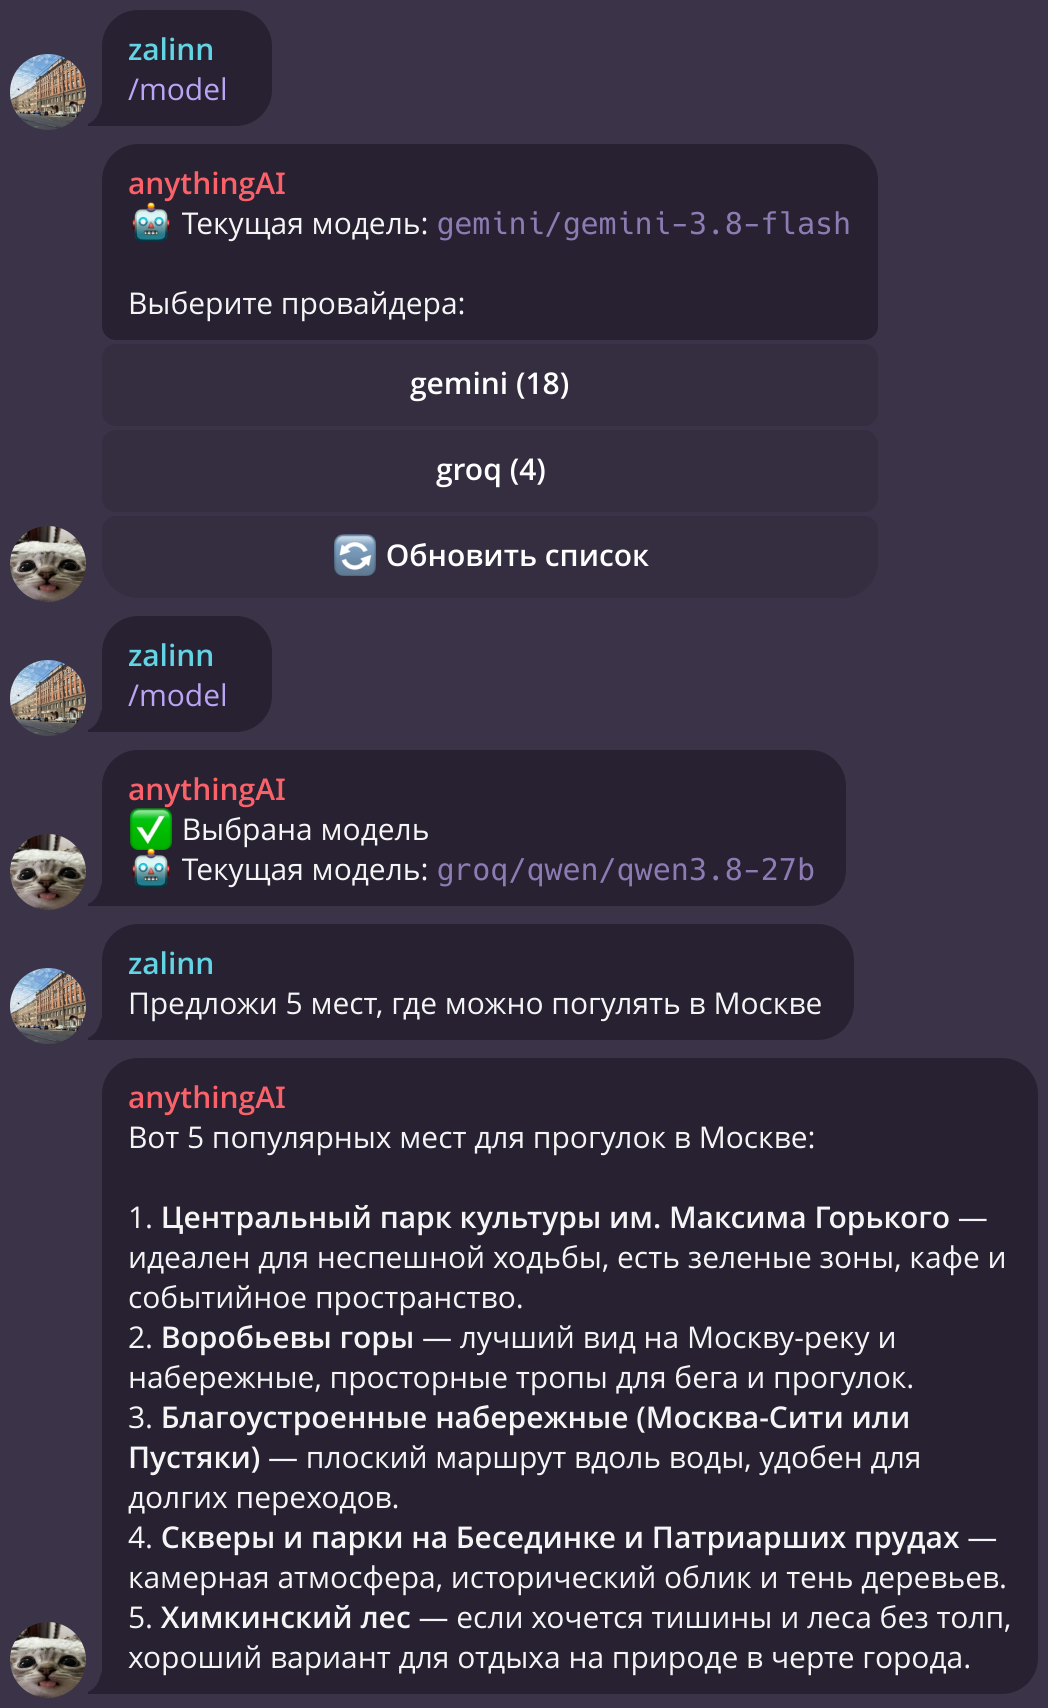
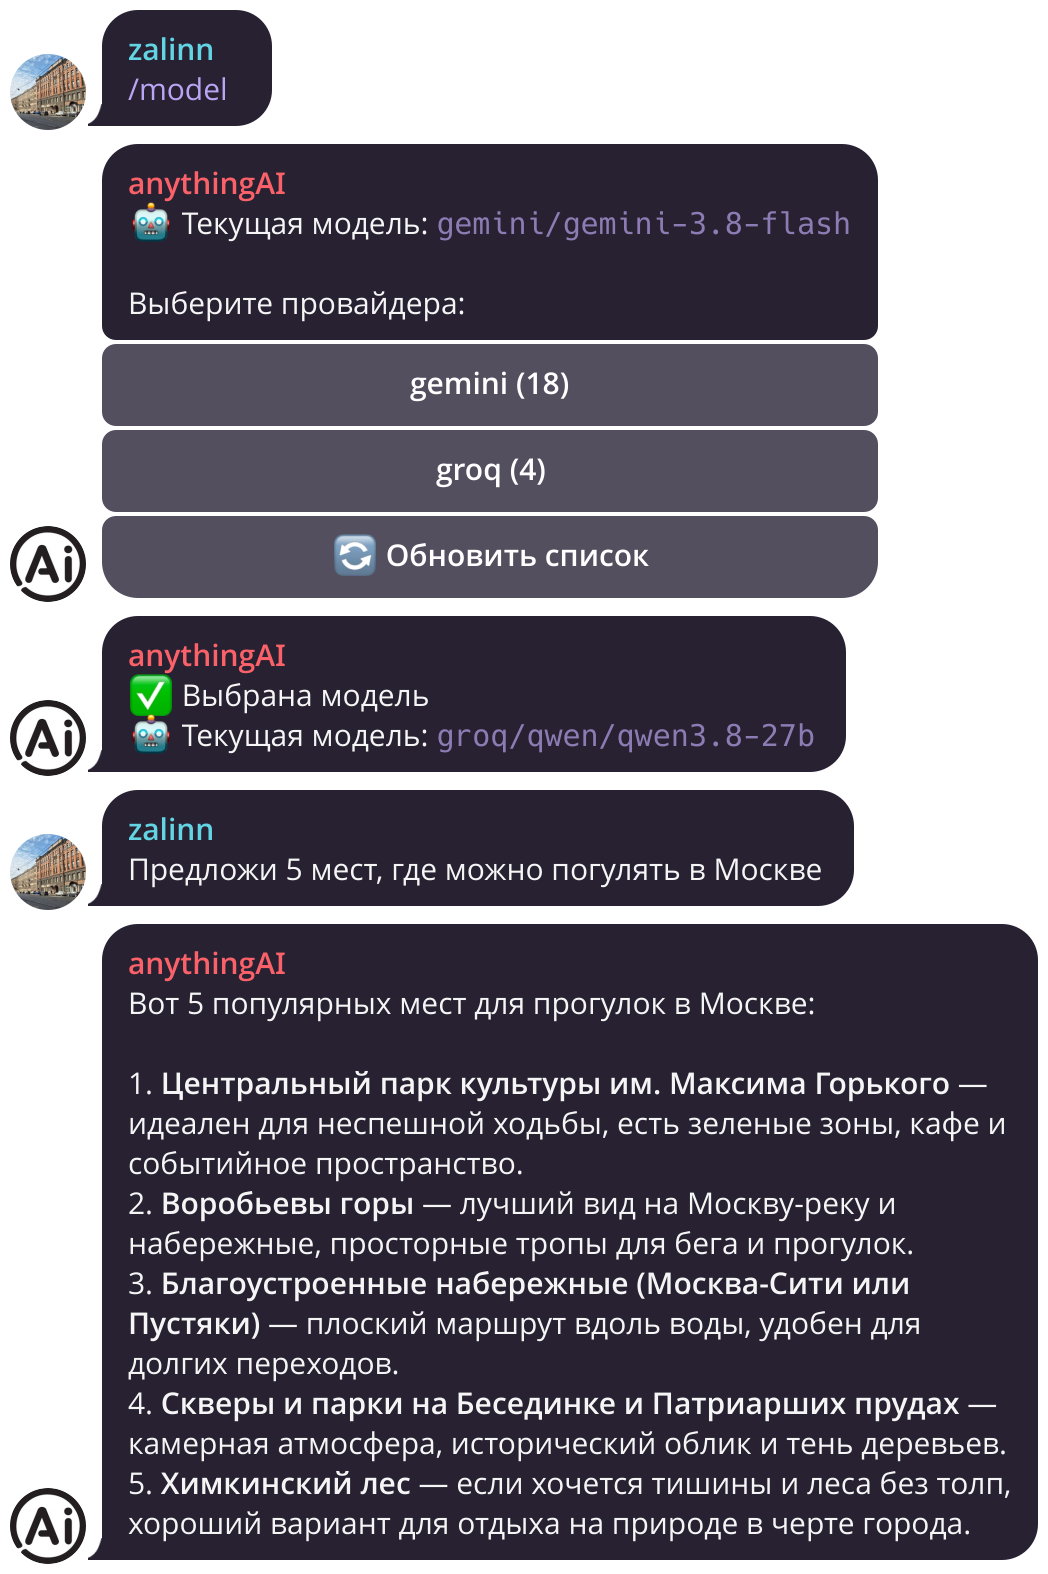
update pic in README

diff --git a/README.md b/README.md
@@ -7,7 +7,9 @@
 ![Docker](https://img.shields.io/badge/Docker-ready-blue)
 ![Ruff](https://img.shields.io/badge/code%20style-ruff-D7FF64)
 
-<img src="docs/screenshot.png" alt="Пример работы бота" width="420">
+<p align="center">
+  <img src="docs/preview.png" alt="Выбор модели и ответ бота" width="820">
+</p>
 
 ---
 
